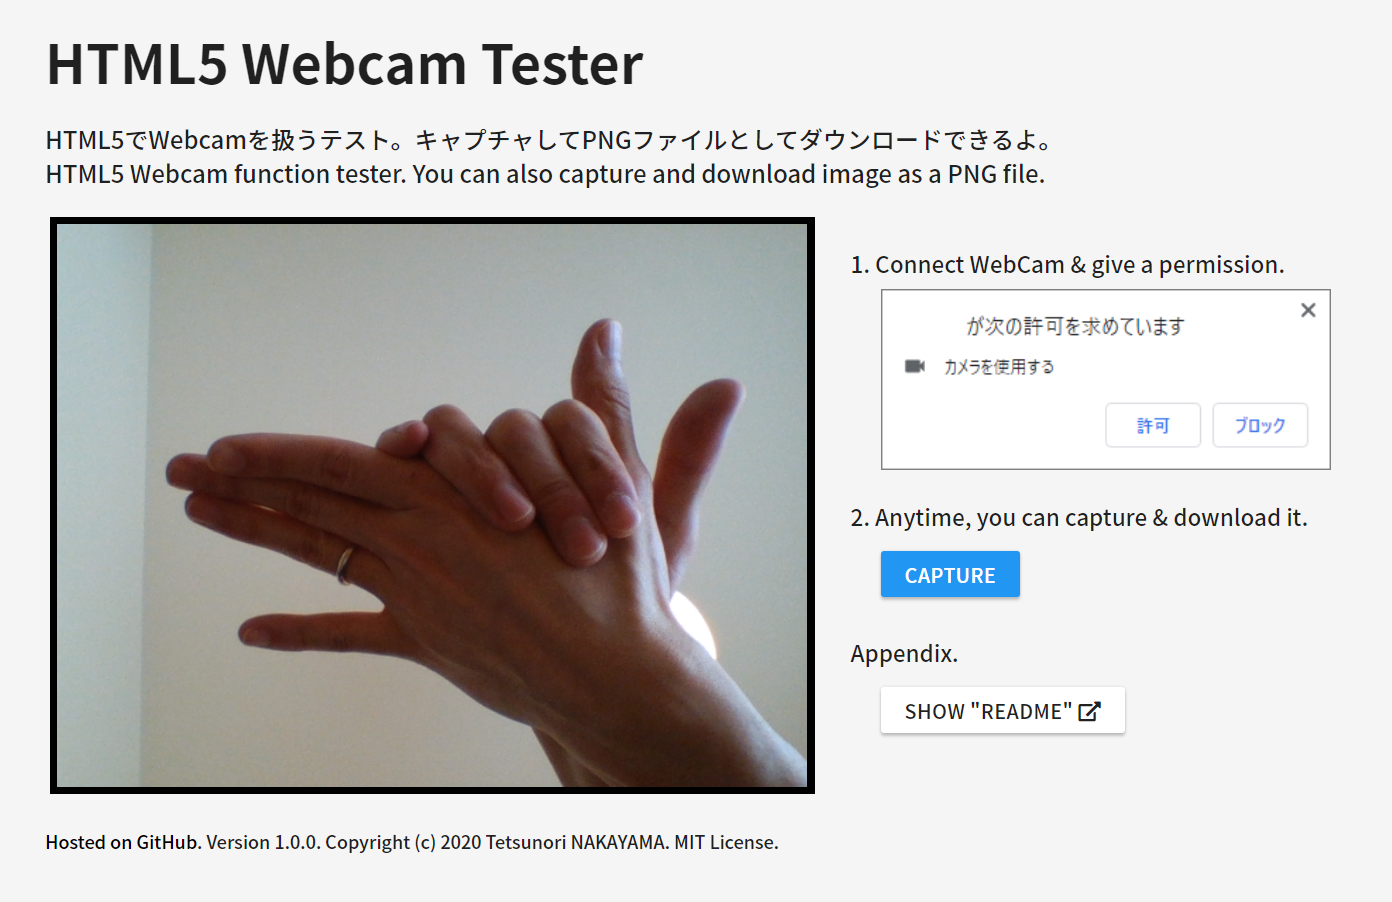
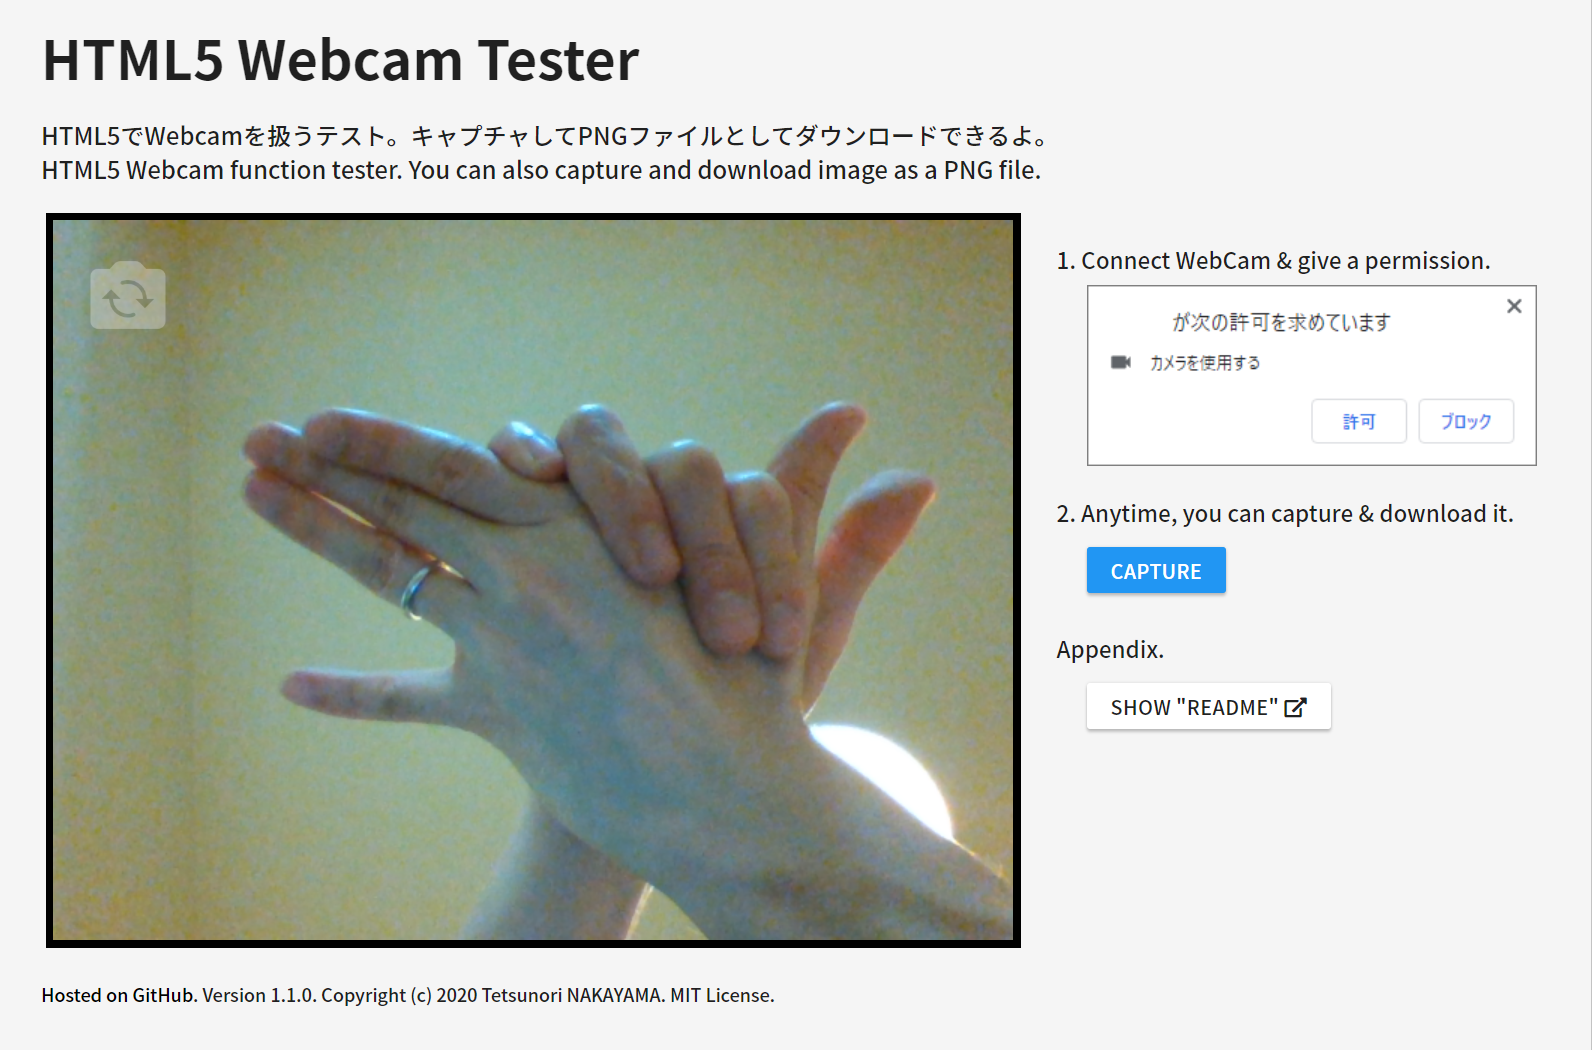
add flip camera function

diff --git a/index.js b/index.js
@@ -1,3 +1,36 @@
+
+// Camera facing mode = flip mode
+const FACING_MODE_ENVIRONMENT = "environment";
+const FACING_MODE_USER = "user";
+let gCurrentCameraFacingMode = FACING_MODE_ENVIRONMENT;
+
+// Flip camera
+const switchCamera = () => {
+
+  if( gCurrentCameraFacingMode === FACING_MODE_ENVIRONMENT ){
+    gCurrentCameraFacingMode = FACING_MODE_USER;
+  }else{
+    gCurrentCameraFacingMode = FACING_MODE_ENVIRONMENT;
+  }
+  startStreamingVideo();
+
+}
+
+// Flip Cmera
+const filpCameraElem = document.getElementById( "flipCameraImage" );
+filpCameraElem.addEventListener( "mouseover", async ev => {
+  filpCameraElem.style.opacity = 0.7;
+});
+filpCameraElem.addEventListener( "mouseout", async ev => {
+  filpCameraElem.style.opacity = 0.3;
+});
+filpCameraElem.addEventListener( "click", async ev => {
+  switchCamera();
+});
+
+
+
+// Video element
 const video = document.querySelector( "#video" );
 
 // On Streaming
@@ -5,9 +38,10 @@ const startStreamingVideo = () => {
       
   if( navigator.mediaDevices.getUserMedia ){
 
-    navigator.mediaDevices.getUserMedia( { video: { facingMode: "environment" } } )
-    .then( ( stream ) => {
-        video.srcObject = stream;
+    navigator.mediaDevices.getUserMedia( 
+      { video: { facingMode: gCurrentCameraFacingMode } } 
+    ).then( ( stream ) => {
+      video.srcObject = stream;
     } );
     
   }
@@ -17,30 +51,36 @@ startStreamingVideo();
 
 // Capture image from video streaming after loading the video stream.
 // Reference => https://qiita.com/iwaimagic/items/1d16a721b36f04e91aed
+let gIsLoaded = false;
 video.onloadedmetadata = () => {
 
-  const btCapture = document.getElementById( 'btCapture' );
+  if( !gIsLoaded ){
+    gIsLoaded = true;
 
-  btCapture.addEventListener( 'click', () => {
-    
-    // Capture: draw to hidden canvas
-    const hiddenCanvas = document.getElementById( 'hiddenCanvas' );
-    hiddenCanvas.width = video.videoWidth;
-    hiddenCanvas.height = video.videoHeight;
-    const ctx = hiddenCanvas.getContext('2d');
-    ctx.drawImage( video, 0, 0, video.videoWidth, video.videoHeight );
+    const btCapture = document.getElementById( 'btCapture' );
 
-    // Download: load DataURL and convert to png
-    const link = document.getElementById( 'hiddenLink' );
-    link.href = hiddenCanvas.toDataURL();
-    
-    // document.getElementById('hiddenCanvas').src = hiddenCanvas.toDataURL();
-    link.download = getYYYYMMDD_hhmmss( true ) + ".png";
-    link.click();
+    btCapture.addEventListener( 'click', () => {
+      
+      // Capture: draw to hidden canvas
+      const hiddenCanvas = document.getElementById( 'hiddenCanvas' );
+      hiddenCanvas.width = video.videoWidth;
+      hiddenCanvas.height = video.videoHeight;
+      const ctx = hiddenCanvas.getContext('2d');
+      ctx.drawImage( video, 0, 0, hiddenCanvas.width, hiddenCanvas.height );
 
-  });
+      // Download: load DataURL and convert to png
+      const link = document.getElementById( 'hiddenLink' );
+      link.href = hiddenCanvas.toDataURL();
+      
+      // document.getElementById('hiddenCanvas').src = hiddenCanvas.toDataURL();
+      link.download = getYYYYMMDD_hhmmss( true ) + ".png";
+      link.click();
 
-  btCapture.disabled = false;
+    });
+
+    btCapture.disabled = false;
+
+  }
 
 }
 
@@ -66,7 +106,7 @@ const getYYYYMMDD_hhmmss = ( isNeedUS ) => {
 
 }
 
-// padding function
+// Zero padding function
 const padZero2Digit = ( num ) => {
   return ( num < 10 ? "0" : "" ) + num;
 }

diff --git a/index.css b/index.css
@@ -3,11 +3,11 @@
 @import url( https://fonts.googleapis.com/earlyaccess/notosansjp.css );
 
 body {
-    background-color: whitesmoke;
-    font-family: 'Noto Sans JP', sans-serif;
-    font-weight: 500;
-    margin-top: 15px;
-    margin-left: 30px;
+  background-color: whitesmoke;
+  font-family: 'Noto Sans JP', sans-serif;
+  font-weight: 500;
+  margin-top: 15px;
+  margin-left: 30px;
 }
 
 td{
@@ -24,43 +24,51 @@ td{
 }
 
 #hiddenContainer {
-    display: none;
+  display: none;
 }
 
 #titleText {
-    font-size: 36px;
-    font-weight: 700;
-    margin-bottom: 15px;
+  font-size: 36px;
+  font-weight: 700;
+  margin-bottom: 15px;
 }
 
 #descriptionText {
-    font-size: 16px;
-    margin-bottom: 15px;
+  font-size: 16px;
+  margin-bottom: 15px;
+}
+
+#flipCameraImage {
+  z-index: 2;
+  position: absolute;
+  opacity: 0.3;
+  margin-left: 20px;
+  margin-top: 20px;
 }
 
 /* WARNING: in table tag */ 
 div.operation {
-    font-size: 15px;
-    margin-left: 20px;
+  font-size: 15px;
+  margin-left: 20px;
 }
 
 /* WARNING: in table tag */ 
 div.operationTitleText {
-    margin-top: 20px;
-    margin-bottom: 6px;
-    text-align: left;
-    font-weight: 500;
+  margin-top: 20px;
+  margin-bottom: 6px;
+  text-align: left;
+  font-weight: 500;
 }
 
 /* WARNING: in table tag */ 
 div.operationContent {
-    text-align: left;
-    margin-left: 20px;
+  text-align: left;
+  margin-left: 20px;
 }
 
 #copyWriteText {
-    margin-top: 20px;
-    font-size: 12px;
+  margin-top: 20px;
+  font-size: 12px;
 }
 
 #copyWriteText a { color: black } 

diff --git a/index.html b/index.html
@@ -36,6 +36,7 @@
             <td>
                 <!-- Streaming video -->
                 <div id="videoContainer">
+                    <img id="flipCameraImage" src="./images/flipCamera.png" width="60px">
                     <video playsinline muted autoplay id="video"></video>
                 </div>
                 
@@ -77,7 +78,7 @@
         
         <!-- Copywrite -->
         <div id="copyWriteText"> 
-            <a href="https://github.com/tetunori/HTML5WebcamTester" target="_blank">Hosted on GitHub</a>. Version 1.0.0. Copyright (c) 2020 Tetsunori NAKAYAMA. MIT License.
+            <a href="https://github.com/tetunori/HTML5WebcamTester" target="_blank">Hosted on GitHub</a>. Version 1.1.0. Copyright (c) 2020 Tetsunori NAKAYAMA. MIT License.
         </div>  
 
         <!-- Script -->
